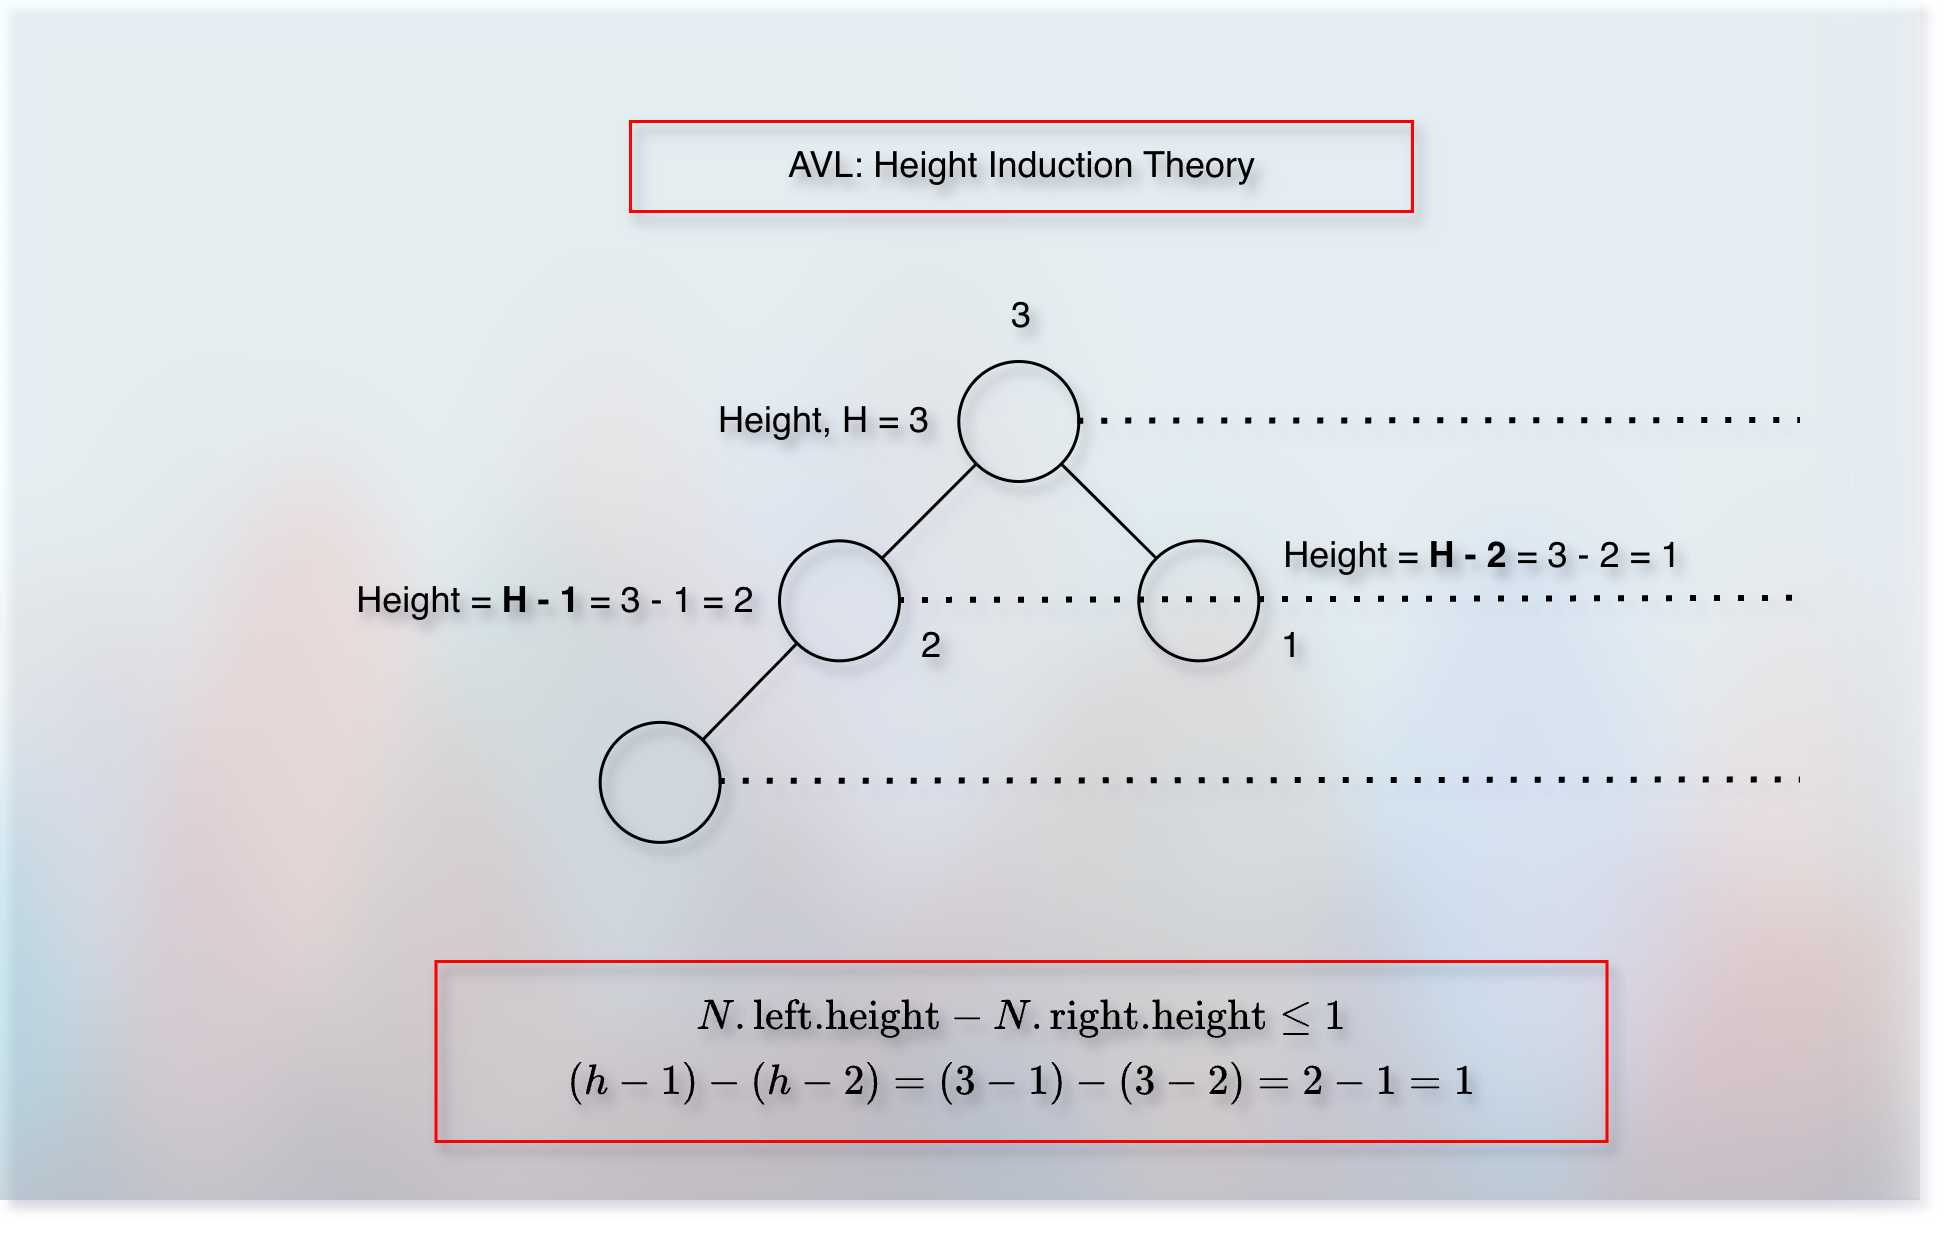
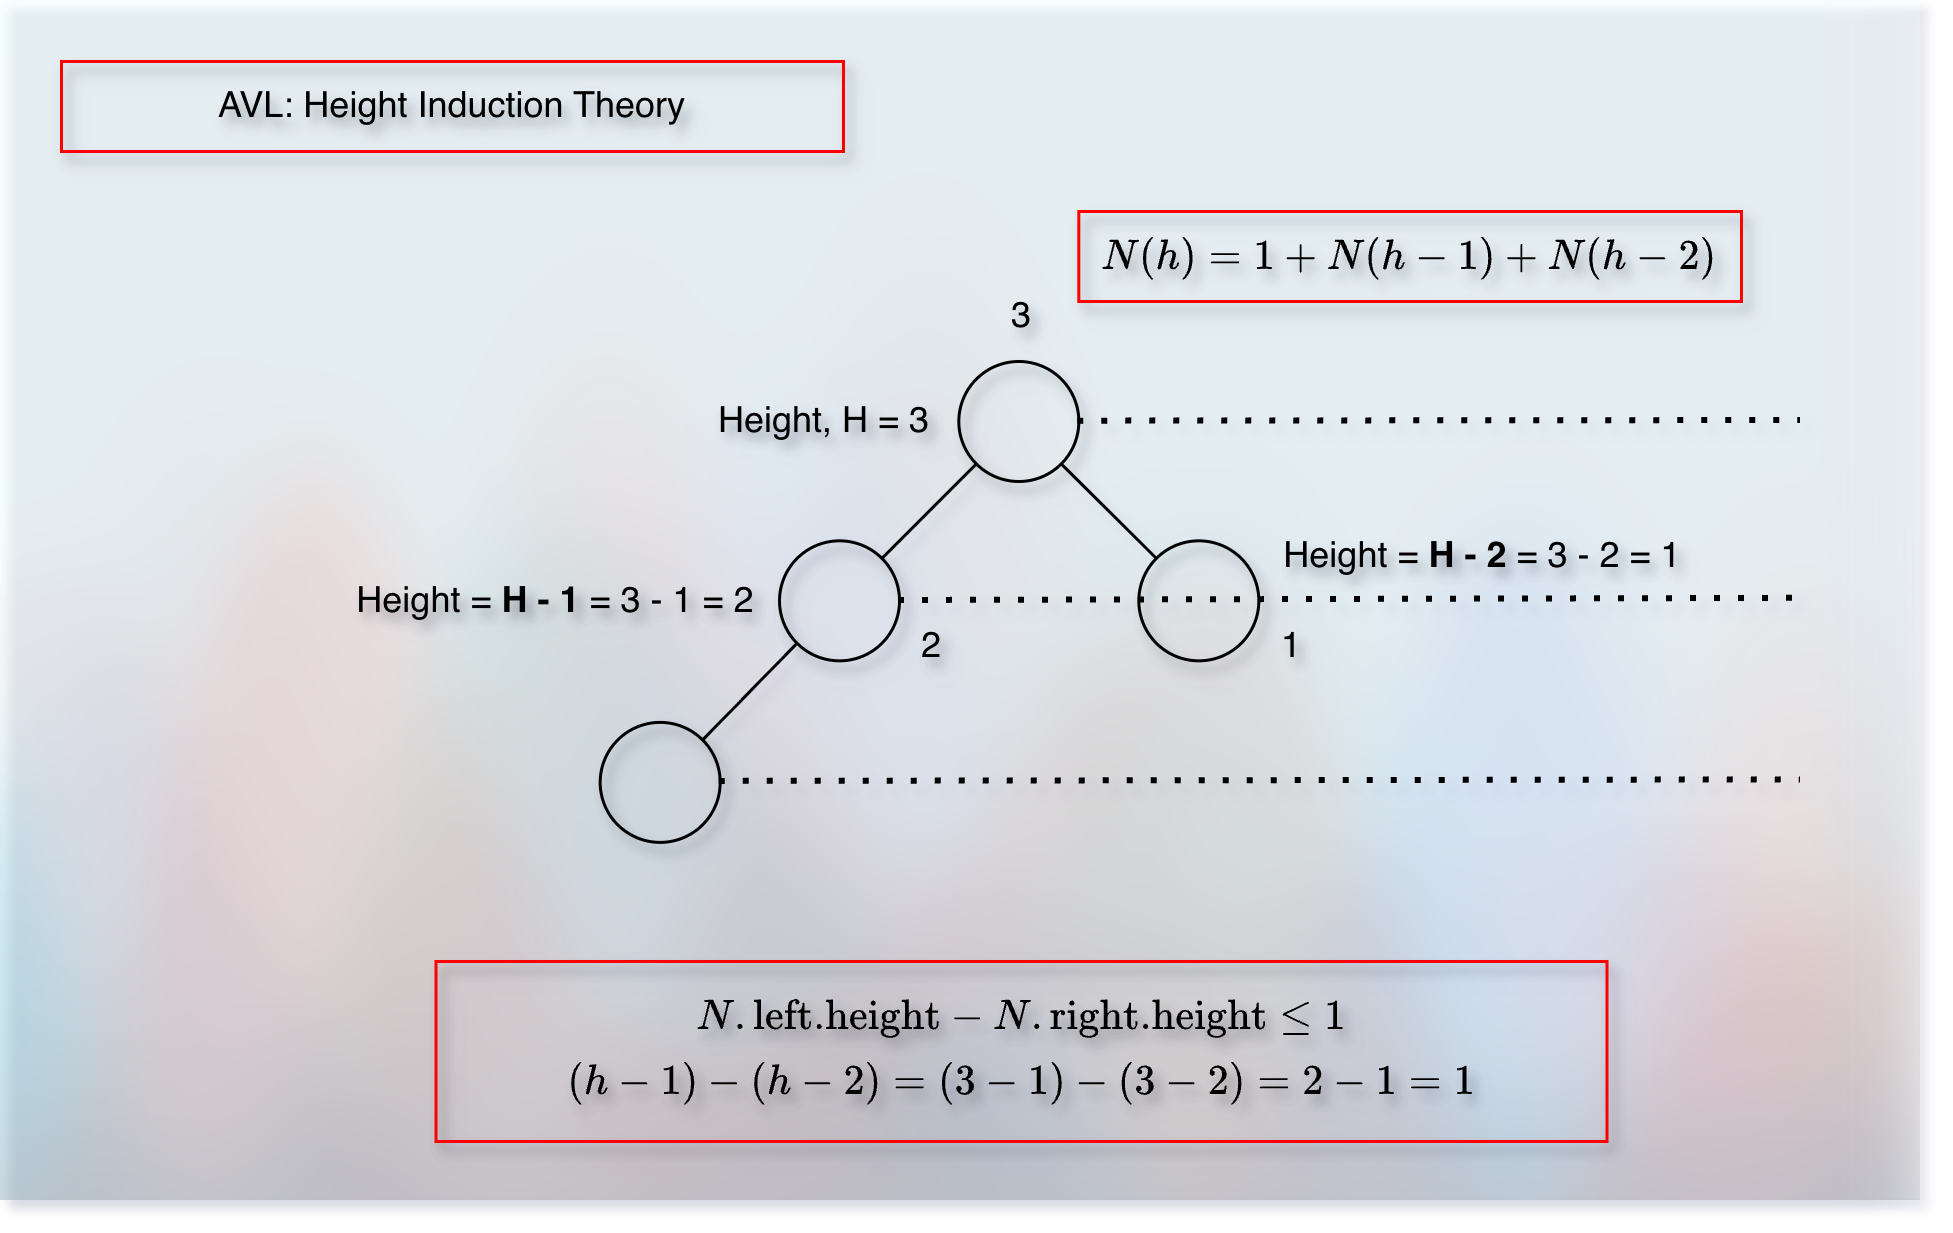
docs(WIP): expand BST balance concepts and add AVL tree height analysis | 15binarySearchTreesBSTBalance.md | A part of the data structures. Reference: Coursera: UC San Diego:  Data Structures: Module 05: Binary Search Trees
Add detailed explanations of tree balance efficiency principles and mathematical proof that AVL tree height is O(log n) using the Fibonacci sequence relationship

Took 1 hour 6 minutes

Changed region(s): [[0.0937, 0.0616, 0.6559, 0.1541], [0.5622, 0.1849, 0.7184, 0.2466], [0.7496, 0.1849, 0.8746, 0.2466]]

diff --git a/docs/dataStructures/courses/uc/module05binarySearchTrees/15binarySearchTreesBSTBalance.md b/docs/dataStructures/courses/uc/module05binarySearchTrees/15binarySearchTreesBSTBalance.md
@@ -64,6 +64,20 @@
 
 * Re-balancing reduces the depth and keeps the `in-order (LPR)` sorted.
 * Hence, the `find` operation becomes faster (efficient).
+* The key observation here is that the efficiency depends on the height of the tree.
+* And the height of a tree depends on the height of subtrees.
+* So, if we maintain the height of subtrees, we can maintain the height of the tree.
+* If the distribution (structure) of the subtrees is unbalanced, then the tree becomes taller, unbalanced and inefficient.
+* So, if we control and maintain the distribution (structure) of the subtree, we can control the efficiency of the tree.
+* To control and maintain the distribution (structure) of a subtree, we need a way to define, and measure it.
+* We already know that "height" is the defining property.
+* And the measurement scale here is in terms of "balance."
+* "Balance" is associated with the "height" only.
+* So, "maintaining the balance" means "maintaining the height".
+* And, a tree can be highly "unbalanced," "balanced," or somewhere in the middle.
+* It means that the tree can be "taller," "shorter," or somewhere in the middle.
+* Also, we need to ensure that the efforts of maintaining the balance should not defeat the core purpose.
+* The core purpose is to make various operations, such as `find(search)` (that depends on the tree height) more efficient.
 
 ## What can create an unbalanced tree?
 
@@ -105,7 +119,7 @@ val heightOfNode = 1 + maxOf(Node.left.height, Node.right.height)
 
 ![190balancedBst.png](../../../../../assets/images/dataStructures/uc/module05binarySearchTreesBST/190balancedBst.png)
 
-* If the height of a left sub-tree is equal to the height of a right sub-tree, we call it a balanced tree.
+* If the height of a left sub-tree is equal to the height of a right sub-tree, we call it a perfectly balanced tree.
 * It means that, we need to add another field, "height" to the node structure.
 * So that we can measure and keep track of the "balance".
 * And when a tree is balanced:
@@ -129,6 +143,15 @@ $$
 N.left.height - N.right.height <= 1
 $$
 
+* It is known as the "controlled balance."
+* And the analysis of such an AVL-Tree, satisfies the below formula:
+
+$$
+N(h) = 1 + N(h - 1) + N(h - 2)
+$$
+
+* Here, `N(h)` means "minimum number of nodes for an AVL-Tree of height `h`."
+* The formula connects (associates) the "minimum number of nodes" with the "height".
 * And we will see that using the "rotation" technique, we can maintain this "flexible balance" (also known as: "enough balance," "perfectly imperfect balance," etc.) in just `O(1)` time!
 * It means that we don't spend more time in maintaining the balance, and we can still maintain the tree height at most `O(log n)`.
 * Now, to maintain the "balance," we need to maintain the "height".
@@ -153,7 +176,77 @@ $$
 
 ![200heightAndNodesRelation.png](../../../../../assets/images/dataStructures/uc/module05binarySearchTreesBST/200heightAndNodesRelation.png)
 
+* Now, the subtree of height `h - 1` must have at least `h - 1` nodes.
+* Let us denote it as `N(h - 1)` that says the minimum nodes in a tree of height `h - 1`.
+* And the subtree of height `h - 2` must have at least `h - 2` nodes.
+* So, `N(h - 2)` says the minimum nodes in a tree of height `h - 2`.
+* Now, if we add `+1(the root node)` to `N(h - 1) + N(h - 2)`, we get the minimum nodes in a tree of height `h`.
+* So, it is:
 
+$$
+N(h) = 1 + N(h - 1) + N(h - 2)
+$$
+
+* On the other hand, for a Fibonacci number $F_h$, we can say:
+
+$$
+F_h = F_{h - 1} + F_{h - 2}
+$$
+
+* The value of a Fibonacci number, $F_h$ is a summation of the previous (last) Fibonacci number, $F_{h - 1}$ and the second previous (second last) Fibonacci number, $F_{h - 2}$.
+* And since $N(h)$ represents "minimum number of nodes for an AVL-Tree of height `h`," we can say:
+
+$$
+N(h) >= F_h
+$$
+
+* If we represent this "minimum number of nodes" as `n`, then it is:
+
+$$
+n >= F_h
+$$
+
+* Also:
+
+$$
+F_h >= 2^{\frac{h}{2}}
+$$
+
+* So, it becomes:
+
+$$
+n >= 2^{\frac{h}{2}}
+$$
+
+* Taking $log_2$ both the sides:
+
+$$
+log_2(n) >= log_2(2^{\frac{h}{2}})
+$$
+
+$$
+log_2(n) >= \frac{h}{2}
+$$
+
+* Multiplying both the sides by 2:
+
+$$
+2log_2(n) >= h
+$$
+
+$$
+h <= 2log_2(n)
+$$
+
+* Dropping the constant `2`,
+
+$$
+h <= log_2(n)
+$$
+
+* We just proved that the maximum height of an AVL-Tree is $log_2(n)$.
+
+//ToDo: Follow The Standard Improvement Process.
 
 ## What is the difference between a binary heap tree and a binary search tree?
 
